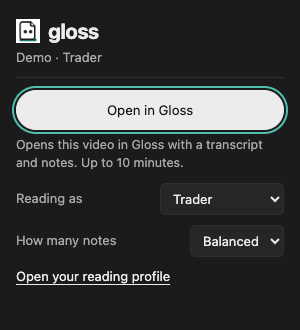
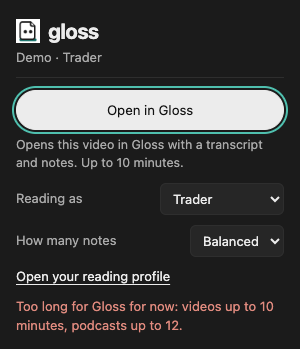
decision 62: review round 1 fixes (listener tests, privacy wording, init.json before deploy, evidence, popup hidden)

diff --git a/apps/extension/test/background.test.ts b/apps/extension/test/background.test.ts
@@ -267,6 +267,37 @@ describe("openVideo (Open in Gloss on YouTube, decision 62)", () => {
   });
 });
 
+describe("the worker's message listener (who may ask for what)", () => {
+  type Listener = (message: unknown, sender: chrome.runtime.MessageSender, reply: (r: unknown) => void) => boolean;
+  const listener = () => chromeFake.runtime.onMessage.addListener.mock.calls[0]![0] as Listener;
+  const popup = { id: "ext", url: "chrome-extension://ext/popup.html" };
+
+  beforeEach(() => {
+    tabUrl = "https://www.youtube.com/watch?v=wajoP_5Cpw8";
+  });
+
+  it.each([
+    ["a content script", { id: "ext", url: "https://www.youtube.com/watch?v=wajoP_5Cpw8", tab: { id: 1 } }],
+    ["another extension page", { id: "ext", url: "chrome-extension://ext/other.html" }],
+    ["another extension", { id: "other", url: "chrome-extension://other/popup.html" }],
+  ])("open-video from %s is ignored: no request, no tab", async (_who, sender) => {
+    const reply = vi.fn();
+    expect(listener()({ type: "open-video", tabId: 1 }, sender as chrome.runtime.MessageSender, reply)).toBe(false);
+    await new Promise((r) => setTimeout(r, 0));
+    expect(reply).not.toHaveBeenCalled();
+    expect(calls).toEqual([]);
+    expect(opened).toEqual([]);
+  });
+
+  it("open-video from the popup opens the video", async () => {
+    const result = await new Promise((resolve) => {
+      expect(listener()({ type: "open-video", tabId: 1 }, popup as chrome.runtime.MessageSender, resolve)).toBe(true);
+    });
+    expect(result).toEqual({ ok: true });
+    expect(opened).toEqual(["https://glossreader.web.app/read/abc"]);
+  });
+});
+
 describe("status", () => {
   it("names the web address the popup links to", async () => {
     connect("anonymous", { webOrigin: "https://readlayer.web.app" });

diff --git a/apps/web/src/pages/PrivacyPage.tsx b/apps/web/src/pages/PrivacyPage.tsx
@@ -65,7 +65,8 @@ const GROUPS: { id: string; title: string; items: string[] }[] = [
     items: [
       "Nothing until you click it on a page. Then the article's title, text and address, with emails, phone numbers and card numbers removed in your browser first. Never forms, comments or anything you type, and never mail, banking or private pages.",
       "Your sign-in stays in the browser's session storage until the browser closes. Signing out, ending the demo or deleting your data disconnects it.",
-      "A page you bring in with it is stored once and readable only by the readers who brought it in. It is listed with the pages you brought in, and deleting your data removes that link.",
+      "An article page you bring in with it is stored once and readable only by the readers who brought it in. It is listed with the pages you brought in, and deleting your data removes that link.",
+      "On a YouTube video, Open in Gloss sends only the video's address, without playlist, time or tracking parts. The video then opens as if you had pasted its link: like any video in Gloss, anyone with its link can read its transcript, and only the entry in your library is yours.",
     ],
   },
 ];

diff --git a/apps/web/src/pages/ConnectPage.tsx b/apps/web/src/pages/ConnectPage.tsx
@@ -35,12 +35,13 @@ const INSTALL = [
   "Pin Gloss to the toolbar, then come back here and press Check again.",
 ];
 
-/** Where Gloss 0.8.1 can still connect: it lists only the old address (decision 62). */
+/** Where Gloss 0.8.1 can still connect: only the old site (decision 62), on either domain. */
 const OLD_HOST = "readlayer-sourabh-26.web.app";
+const OLD_SITE = "readlayer-sourabh-26.";
 
 /** On any other address, a reader with 0.8.1 sees "not installed": say why, and where 0.8.2 is. */
 export function OlderExtensionHint({ hostname }: { hostname: string }) {
-  if (hostname === OLD_HOST) return null;
+  if (hostname.startsWith(OLD_SITE)) return null;
   return (
     <p className="connect__note">
       Installed Gloss 0.8.1 earlier? It connects only from {OLD_HOST}.{" "}

diff --git a/apps/extension/src/popup.css b/apps/extension/src/popup.css
@@ -34,7 +34,7 @@ body { margin: 0; width: 300px; background: var(--surface); color: var(--ink); }
 .popup__message { margin: 0; min-height: 1.45em; font-size: 13px; }
 .popup__message[data-tone="error"] { color: var(--danger); }
 section { display: grid; gap: 10px; }
-[hidden] { display: none; }
+[hidden] { display: none !important; }
 .btn {
   display: block; width: 100%; min-height: 40px; padding: 10px 16px; border: 1px solid var(--ink); border-radius: 999px;
   font: 600 14px/1.2 inherit; font-family: inherit; text-align: center; text-decoration: none; cursor: pointer;

diff --git a/apps/web/test/sites.test.tsx b/apps/web/test/sites.test.tsx
@@ -26,6 +26,8 @@ describe("Connect page hint for Gloss 0.8.1 (decision 62)", () => {
     expect(html).toContain("/releases/tag/extension-v0.8.2");
   });
   it("on the old address, says nothing (0.8.1 connects there)", () => {
-    expect(renderToStaticMarkup(<OlderExtensionHint hostname="readlayer-sourabh-26.web.app" />)).toBe("");
+    for (const host of ["readlayer-sourabh-26.web.app", "readlayer-sourabh-26.firebaseapp.com"]) {
+      expect(renderToStaticMarkup(<OlderExtensionHint hostname={host} />)).toBe("");
+    }
   });
 });

diff --git a/tools/shots/gloss_youtube.py b/tools/shots/gloss_youtube.py
@@ -47,7 +47,8 @@ SESSION_JS = """chrome.storage.session.set({session: {
 POPUP_JS = """({video: !document.getElementById('video-actions').hidden,
   article: !document.getElementById('article-actions').hidden,
   focused: document.activeElement && document.activeElement.id,
-  button: document.getElementById('open-video').textContent,
+  button: [...document.querySelectorAll('#article-actions button, #video-actions button')]
+    .find(b => b.closest('[hidden]') === null)?.textContent,
   hint: document.getElementById('video-hint').textContent})"""
 
 
@@ -104,7 +105,8 @@ def port_open(port: int) -> bool:
         return s.connect_ex(("127.0.0.1", port)) == 0
 
 
-async def press(h: Harness, shot: str | None = None) -> tuple[dict, str]:
+async def press(h: Harness, shot: str | None = None, after: str | None = None) -> tuple[dict, str]:
+    """`shot` before the click; `after` once the popup shows its message (a refusal)."""
     pop = await h.popup()
     view = await pop.eval(POPUP_JS)
     if shot:
@@ -121,6 +123,8 @@ async def press(h: Harness, shot: str | None = None) -> tuple[dict, str]:
         except websockets.exceptions.ConnectionClosed:
             # Chrome closes a popup when the tab it opens takes focus: the success path.
             return view, POPUP_CLOSED
+        if after:
+            print(f"[{after}]", await pop.shot(after))
     await h.close(pop)
     return view, message
 
@@ -182,7 +186,7 @@ async def main() -> None:
         step("youtube: a refusal")
         api_reply.update(status=422, body={"error": "too_long", "message": TOO_LONG})
         worker.seen.clear()
-        _, refused = await press(h, "popup-youtube-too-long")
+        _, refused = await press(h, after="popup-youtube-too-long")
         record("refusal message", refused)
         if refused != TOO_LONG.split(" Use “Open original”")[0]:
             failures.append(f"refusal shown as {refused!r}")

diff --git a/docs/STATUS.md b/docs/STATUS.md
@@ -1,6 +1,6 @@
 # ReadLayer — project status and handoff
 
-Last updated: 2026-10-14 (IST): **Decision 62 built on `gloss-address` (§31): new address `glossreader.web.app` (site created; `gloss`, `gloss-reader` taken), extension 0.8.2 with Open in Gloss on YouTube, gitleaks clean over all history and PR heads, the account name out of tracked files. Next: milestone-reviewer, PR, then the outward steps on Sourabh's yes (Auth domains, his Cloud console step, API env deploy, release 0.8.2, web deploy to both sites, repo public).** **Landing refresh (decision 61) merged (#38) and live (web `index-C8hhvJGX.js`; live check passed, §30). Decision 62 (a "gloss" web address) planned for Oct 15.** **Readiness on For you (decision 60) merged (#37) and live: API revision `readlayer-api-00030-4xb`, web deployed (`index-Bv4pOIf-.js`); live check passed (§29). Next: landing refresh (decision 61).** **M9 part 3 (cost / cache / latency report, monitoring dashboard, hardening checks; decisions 58–59) merged (#36; scripts, docs, dashboard: no deploy needed). M9 complete; open: Sourabh's audit of the 30 precision verdicts; next Oct 16 (seeding, README refresh, video, deck).** **M9 part 2 (same-page duplicates merged, known wrong prerequisites filtered, fresh precision 27/30) merged (#35) and live: API revision `readlayer-api-00029-9lp` (§27). Open: Sourabh's audit of the 30 precision verdicts.** **M9 part 1 (growth slots taken when used, pages that missed growth grow on reopen) merged (#34) and live: API revision `readlayer-api-00028-7zs`, web deployed, release `extension-v0.8.1` (2026-10-14, §26). Live-checked: Sourabh reopened his empty extension pages with 0.8.1, "Great extention worked".** **Media (decision 54) merged (#32) and live (API revision `readlayer-api-00027-q2s`, web deployed, 2026-10-14; §24): YouTube videos up to 10 minutes and Apple Podcasts episodes up to 12. Follow-up (decision 55: youtube.com player, a choice in the feed) merged (#33) and live (web deployed 2026-10-14, §25); live-checked by Sourabh.** Earlier, 2026-10-13: **API revision 00026 (settings only, 2026-10-13): growth caps 60 per reader and 300 a day (decision 53).** **M8-local merged (#30) and live** (API revision 00025, web
+Last updated: 2026-10-14 (IST): **Decision 62 built on `gloss-address` (§31): new address `glossreader.web.app` (site created; `gloss`, `gloss-reader` taken), extension 0.8.2 with Open in Gloss on YouTube, gitleaks clean over all history and PR heads, the account name out of tracked files. Auth authorized domains added on Sourabh's yes (§31). Next: Sourabh's Cloud console step, then on his yes: link the site to the web app and confirm its `init.json`, API env deploy, release 0.8.2, web deploy to both sites, live check, repo public.** **Landing refresh (decision 61) merged (#38) and live (web `index-C8hhvJGX.js`; live check passed, §30). Decision 62 (a "gloss" web address) planned for Oct 15.** **Readiness on For you (decision 60) merged (#37) and live: API revision `readlayer-api-00030-4xb`, web deployed (`index-Bv4pOIf-.js`); live check passed (§29). Next: landing refresh (decision 61).** **M9 part 3 (cost / cache / latency report, monitoring dashboard, hardening checks; decisions 58–59) merged (#36; scripts, docs, dashboard: no deploy needed). M9 complete; open: Sourabh's audit of the 30 precision verdicts; next Oct 16 (seeding, README refresh, video, deck).** **M9 part 2 (same-page duplicates merged, known wrong prerequisites filtered, fresh precision 27/30) merged (#35) and live: API revision `readlayer-api-00029-9lp` (§27). Open: Sourabh's audit of the 30 precision verdicts.** **M9 part 1 (growth slots taken when used, pages that missed growth grow on reopen) merged (#34) and live: API revision `readlayer-api-00028-7zs`, web deployed, release `extension-v0.8.1` (2026-10-14, §26). Live-checked: Sourabh reopened his empty extension pages with 0.8.1, "Great extention worked".** **Media (decision 54) merged (#32) and live (API revision `readlayer-api-00027-q2s`, web deployed, 2026-10-14; §24): YouTube videos up to 10 minutes and Apple Podcasts episodes up to 12. Follow-up (decision 55: youtube.com player, a choice in the feed) merged (#33) and live (web deployed 2026-10-14, §25); live-checked by Sourabh.** Earlier, 2026-10-13: **API revision 00026 (settings only, 2026-10-13): growth caps 60 per reader and 300 a day (decision 53).** **M8-local merged (#30) and live** (API revision 00025, web
 deployed; live check passed, §22): the Gloss extension, unpacked, activeTab only. Open: Sourabh's
 manual Gmail and bank-login refusal check (§9); the extension zip is released (`extension-v0.8.0`). **Decision 50** merged (#28, #29) and
 live (API revision 00024; scheduled runs confirmed, §21). Before that: Decision 48 (#27),
@@ -293,8 +293,8 @@ and `select_corpus()` now also drops `user_ingested` docs even if a URL is liste
 | Low | Web main bundle **149.93 KB** gzip after decision 62 (149.88 after the landing refresh; budget 150 KB; **≈ 0.07 KB left**: any further reader change must be lazy); For you, Saved, Profile, the week panel (1.68 KB) and the reading spine (1.05 KB) are lazy chunks; the Cytoscape + dagre chunk is gone (the map is SVG) |
 | Medium | Landing refresh (decision 61): "Get the extension (v0.8.1)" and the footer link go to GitHub Releases, which 404 for everyone but Sourabh until the repo is public (Oct 17, after gitleaks), like the other GitHub links. Next: repo public in decision 62 (step F, after gitleaks: clean); check both links live afterwards |
 | Medium | The landing pins `releases/tag/extension-v0.8.2` since decision 62 (link, render test, button, DESIGN §20.2 moved). Until the 0.8.2 release exists the link 404s even for Sourabh. Next: release 0.8.2 before the web deploy (plan order) |
-| Medium | Sign-in on `glossreader.web.app` uses that host as Firebase `authDomain` (decision 62, R11): it needs Sourabh's Cloud console step (its OAuth redirect URI) before the web deploy, and `/__/firebase/init.json` on the site answered 404 on 2026-10-14 (R13: check after deploy; link the site to the `readlayer-web` app if needed). Next: fallback is a follow-up PR returning that host to the built `authDomain`; the old address is unaffected |
-| Low | Extension 0.8.1 lists only the old address, so on `glossreader.web.app` its Connect page says "not installed"; the page now says why and links 0.8.2. Sessions saved by 0.8.1 have no origin, so after updating, Open in Gloss opens on the new address until the reader connects again |
+| Medium | Sign-in on `glossreader.web.app` uses that host as Firebase `authDomain` (decision 62, R11): it needs Sourabh's Cloud console step (its OAuth redirect URI) before the web deploy, and `/__/firebase/init.json` on the site answered 404 on 2026-10-14, which the auth handler needs (R13): **before** the web deploy, the site is linked to the `readlayer-web` app and `init.json` must answer 200 with the project's id and API key. Next: fallback is a follow-up PR returning that host to the built `authDomain`; the old address is unaffected |
+| Low | Extension 0.8.1 lists only the old address, so on `glossreader.web.app` its Connect page says "not installed"; the page now says why and links 0.8.2. Updating the extension clears its session storage, so every reader connects again after updating (the session then records its origin) |
 | Low | The landing's feed still is not re-shot after the Oct 16 persona re-seed (plan R6), so its readiness lines may differ from the live demo feed. Next: Accepted (freeze); re-shoot only if a line becomes wrong |
 | Low | Emulator only: a brand-new reader's first page fires several requests at once and each runs the `ensure_user` create-if-missing transaction; with four at once the Firestore emulator made them queue (≈ 20 s, "Failed to commit transaction in 5 attempts" in the log, all still 200). The library now asks for the week map after its first answer, which restored the earlier behaviour; a per-uid single-flight in `app/auth.py` would remove the race for every page (M9 candidate). No production occurrence seen |
 | Low | The weekly trend is per uid, so a demo session's trend mixes the personas it read as (the page says "this demo session") |
@@ -546,7 +546,7 @@ BUILD_PLAN.md has the prompts. M6, M7 and M2.2 are merged and live.
 | Oct 14 | **Media** (decision 54): **merged #32 and live** (API 00027, web). Open: the T05 video and T06 episode live as a Google reader, then a demo reader opening them free (§24) |
 | Oct 14 | **Media follow-up** (decision 55): merged #33 and live (web deployed). Open, live: Sourabh plays a video signed in to YouTube and opens a feed video both ways |
 | Oct 15 | **M9.** Part 1 merged #34 and live (§26). Part 2 merged #35 and live (API 00029, §27); Sourabh audits the 30 precision verdicts (`apps/api/evals/heldout_report.md`, row 12 Pregabalin especially). Part 3 (ops evals, hardening, dashboard) built Oct 14 (§28): milestone-reviewer, PR, merge (docs and scripts only, no deploy) |
-| Oct 15 | **Decision 62** (gloss address, Open in Gloss, repo public): plan approved and **built Oct 14** (§31); review, PR, outward steps on Sourabh's yes. **Readiness on For you** (decision 60): **done Oct 14** (merged #37, live, §29). **Landing refresh** (decision 61, plan `docs/plans/landing-refresh.md`): **built Oct 14**, all checks pass (§30); review, PR and web deploy next. **Decision 62** (a "gloss" web address): plan and build Oct 15. **Checkpoint: not merged by end of Oct 15 IST → ask Sourabh what to cut (decision 27)**; nothing slips into Oct 16 seeding |
+| Oct 15 | **Decision 62** (gloss address, Open in Gloss, repo public): plan approved and **built Oct 14** (§31); review, PR, outward steps on Sourabh's yes. **Readiness on For you** (decision 60): **done Oct 14** (merged #37, live, §29). **Landing refresh** (decision 61, plan `docs/plans/landing-refresh.md`): **merged (#38) and live** (§30). **Checkpoint: not merged by end of Oct 15 IST → ask Sourabh what to cut (decision 27)**; nothing slips into Oct 16 seeding |
 | Done Oct 12 | `m8-resume` fast-forwarded to main (it was an ancestor); the wip 2f037a1 carried over by hand (§22) |
 | Oct 16 | Code freeze; demo seeding (re-seed persona templates, pre-ingest demo articles, **re-run `seed_demo_feed`** so the demo feed isn't dated "10 Oct" during judging, **`warm_demo --shifts`** after a dry run: ≤ 48 ±1-band Backgrounds, ≈ $0.20, so "Say it simpler" is warm in the video), README refresh and new screenshots (**fix README's "Videos and podcasts appear today as recommendations only; annotating them is outside the hackathon scope"**, which the landing now contradicts, and **bring the README's extension install steps in line with the landing's**), video, deck. **From readiness (decision 60):** after the persona re-seed, re-run `scripts/readiness_mix.py` (stop rule: one level on ≥ 80% of the newcomer's rows → tell Sourabh, no retuning), and read the newcomer's and trader's stretch lines before the video (one now says "read up on Economic stocks and flows" for a stock-market video, from "stocks" linked to Stock variable): add a plainly wrong edge to the known-wrong prerequisites or keep that row out of the shot. **From M9 part 2:** don't use the BBC PFAS article (`cq8r6nzp4230o`) as the demo article (its stored concepts keep the Forever chemicals / PFAS duplicate); the deck carries the frozen-graph line (64% / 13% vs 89% / 66%) and the three precision numbers (87%, 97%, 90%). **From M9 part 3:** the deck labels 87 / 97 / 90 as judged by the build agent (and whether Sourabh's audit is done); the README already carries the measured request p95 (478 ms, Oct 8–14), cost and spend from `evals/ops_report.md`; refresh them if the report is re-run |
 | **Oct 17** | **Submit** (deadline Oct 18): run a gitleaks scan over the full history, then make the GitHub repo public (decision 44; the landing links to it) |
@@ -1231,12 +1231,15 @@ Plan `docs/plans/gloss-address.md` (rounds 1–4, APPROVE). Branch `gloss-addres
 | Check | Result |
 |---|---|
 | Hosting site | On Sourabh's yes, after the identity check: `gloss` and `gloss-reader` reserved by other projects (Hosting API 400); **`glossreader` created** (`https://glossreader.web.app`, `/__/auth/handler` 200). `firebase.json` has two targets (`app`, `gloss`) with identical bodies; `.firebaserc` maps them |
-| Tests (first) | API: shared `tests/fixtures/youtube_urls.json` (10 video forms, 14 non-videos) read by `test_media_urls.py` and the extension; `test_deploy_env.py`: CORS is exactly both sites on both domains plus the extension, hosting entries identical. Extension: `youtube.test.ts` (fixture, video cap from `deploy.env.yaml`), `background.test.ts` (+15: session origin, Open in Gloss, persona, onboarding, refusals by API words without "Open original", offline), `env.test.ts`. Web: `sites.test.tsx` (authDomain per host, Connect hint), landing pin 0.8.2 |
-| Suites | `pnpm -r typecheck` clean; web **205**, extension **132**, annotator 60; API **1186 passed**, 3 skipped; ruff clean |
+| Tests (first) | API: shared `tests/fixtures/youtube_urls.json` (10 video forms, 14 non-videos) read by `test_media_urls.py` and the extension; `test_deploy_env.py`: CORS is exactly both sites on both domains plus the extension, hosting entries identical. Extension: `youtube.test.ts` (fixture, video cap from `deploy.env.yaml`), `background.test.ts` (+19: session origin, Open in Gloss, persona, onboarding, refusals by API words without "Open original", offline), `env.test.ts`. Web: `sites.test.tsx` (authDomain per host, Connect hint), landing pin 0.8.2 |
+| Suites | `pnpm -r typecheck` clean; web **205**, extension **136**, annotator 60; API **1186 passed**, 3 skipped; ruff clean |
 | Bundle | Main **149.88 → 149.93 KB** gzip (gate 150.00; the per-host authDomain); landing and Connect changes in lazy chunks |
 | Extension 0.8.2 | Production build: permissions `activeTab`, `scripting`, `storage` only (manifest check passes); `externally_connectable` lists both sites on both domains; web base `glossreader.web.app` |
 | Local check `tools/shots/gloss_youtube.py` (no web server; API answered inside the browser) | On a stub page at the real watch URL (with `&t=42s&si=…&list=…`): popup shows **Open in Gloss**, focused, hint "Up to 10 minutes"; the worker sent **one** request, `POST /v1/recs/open` `{"url": "https://www.youtube.com/watch?v=wajoP_5Cpw8"}`; a tab opened at `/read/93053af2…?persona=trader`; a 422 `too_long` shows "Too long for Gloss for now: videos up to 10 minutes, podcasts up to 12."; on an article the popup is unchanged (Read this page, focused); 0 model routes. Evidence `docs/evidence/gloss-address/` |
 | gitleaks (R4) | 37 PR heads fetched; `gitleaks git --log-opts=--all`: 448 of 450 commits by its count, 2 findings, both the extension manifest's **public** RSA key (allow-listed in `.gitleaksignore` with the reason), rescan clean; cross-check `git log --all -p -m | gitleaks stdin`: 5 findings, all that same key |
 | Personal data (R5, R12) | No email in the 37 PR titles and bodies or the 1 issue. The account's address is out of tracked files (Makefile reads `.gcp.local.mk`, gitignored; STATUS and AUTOPILOT_LOG reworded); `git grep -i` for its local part returns nothing. History keeps it (Sourabh's choice) |
-| Deviations | Popup refusals reuse the API's own words minus the "Open original" sentence (more specific than per-code copy; R2 allowed either). The shared shots constant is `tools/shots/live_site.py`, not `site.py` (that name would shadow Python's `site` module). The local check guards port 5173 only: a dev API was already running on 8000 (not ours, left alone), and every worker request is answered in the browser before it leaves |
+| Auth authorized domains (Sourabh's yes, 2026-10-14) | `make check-gcp` ok. Dry run (R8): before `localhost`, `readlayer-sourabh-26.firebaseapp.com`, `readlayer-sourabh-26.web.app`; body adds `glossreader.web.app`, `glossreader.firebaseapp.com`; **2 added, 0 removed**. PATCH ok; read back matches the body |
+| gitleaks on the tracked tree (F1) | `git archive HEAD` scanned with `gitleaks dir`: 1 finding, the manifest's public key (as in history) |
+| Review round 1 (milestone-reviewer **FIX**, 4 blocking + 5) | Applied: §31 Auth row; init.json check and site link moved **before** the web deploy (plan R16, log, §5); README, privacy page and DESIGN §22 no longer call a video opened from the extension private; listener tests (`open-video` ignored from a content script, another page or extension; accepted from the popup); §8 row cleaned; §5 0.8.1 session sentence corrected; evidence re-shot after the refusal shows and the visible button recorded; popup `[hidden]` now wins over `.field` (the persona row could show to Google readers); the Connect hint is silent on both old domains |
+| Deviations | Popup refusals reuse the API's own words minus the "Open original" sentence, not R2's per-code copy: the API's words are more specific (not public, live, too long, the demo cap with its sign-in hint). The shared shots constant is `tools/shots/live_site.py`, not `site.py` (that name would shadow Python's `site` module). The local check guards port 5173 only: a dev API was already running on 8000 (not ours, left alone), and every worker request is answered in the browser before it leaves |
 

diff --git a/docs/AUTOPILOT_LOG.md b/docs/AUTOPILOT_LOG.md
@@ -1909,3 +1909,16 @@ changed, live URLs and numbers. Newest entries at the bottom of each milestone.
   `localhost, readlayer-sourabh-26.firebaseapp.com, readlayer-sourabh-26.web.app`; added
   `glossreader.web.app, glossreader.firebaseapp.com`; removed none. PATCH ok; read back matches.
   Next: Sourabh's Cloud console step (OAuth origin and redirect URI), then deploy-api on his yes.
+- milestone-reviewer round 1: **FIX** (4 blocking: §31 Auth row, init.json/site link before the
+  web deploy, videos called private in README and the privacy page, no listener test; 5 more) →
+  all applied (STATUS §31 review row, plan R16). Local check re-run: all pass, refusal still shot.
+
+### Next steps (resume here, in order)
+1. milestone-reviewer round 2 → SHIP → PR → CI → merge.
+2. Outward, each on Sourabh's yes, `make check-gcp` first: Sourabh's Cloud console step (OAuth
+   origin and redirect URI for glossreader.web.app; brand name) → link `glossreader` to the
+   `readlayer-web` app, `init.json` 200 (R16) → R9 diff check, `make deploy-api`, CORS preflight
+   from both origins → `make extension-zip` from merged `main`, release `extension-v0.8.2` →
+   `make deploy-web` from clean `main` → live check (R6 bounds; Sourabh's Google sign-in on
+   glossreader) → gitleaks over all history again → repo public → signed-out link checks.
+3. The Oct 16 items (unchanged).

diff --git a/README.md b/README.md
@@ -270,7 +270,7 @@ Gloss also runs on any news page through a Chrome extension. It isn't on the Chr
 4. In the web app, open your account menu → **Use Gloss on any site** and press **Connect** (a demo session connects as its sample reader).
 5. Open a news article and click Gloss in the toolbar, then **Read this page** (or press Alt+Shift+R). On a YouTube video, the same button is **Open in Gloss**: the video opens in the web app with a transcript and notes (videos up to 10 minutes).
 
-The extension sends only the article's title and paragraphs (on YouTube, only the video's link, with any playlist, time or tracking parameters removed), after removing emails, phone numbers, card numbers, Aadhaar and PAN numbers in your browser. A page you bring in is visible only to you.
+The extension sends only the article's title and paragraphs (on YouTube, only the video's link, with any playlist, time or tracking parameters removed), after removing emails, phone numbers, card numbers, Aadhaar and PAN numbers in your browser. An article page you bring in is visible only to you. A YouTube video opened from the extension is stored like any video pasted into Gloss: anyone with its link can read it, and only the entry in your library is yours.
 
 ## Repository structure
 

diff --git a/docs/plans/gloss-address.md b/docs/plans/gloss-address.md
@@ -306,3 +306,13 @@ in the 37 PR titles and bodies or the 1 issue.
 
 **Approved** (plan-reviewer round 4, 2026-10-14, at e65ef9a). Its nit (the extension test asserts
 `not_videos` map to null, from the same JSON keys) is how `youtube.test.ts` is written.
+
+## Round 5 (milestone-reviewer FIX on the build; overrides R13's timing)
+
+**R16. Link the site and check `init.json` before the web deploy.** `/__/firebase/init.json` depends
+on the Hosting site being linked to a web app, not on a deploy, and the auth handler needs it. So
+after Sourabh's console step and before `make deploy-web`, on his yes: link `glossreader` to the
+`readlayer-web` app (Hosting API site `appId`), then `curl` `https://glossreader.web.app/__/firebase/init.json`:
+200, `projectId` `readlayer-sourabh-26`, the build's `apiKey`. Only then deploy. Fallback unchanged.
+The zip is built from merged `main` at release time, so it matches the tag; gitleaks re-runs over
+all history after the merge, before the repo goes public.

diff --git a/docs/DESIGN.md b/docs/DESIGN.md
@@ -1383,5 +1383,7 @@ see (R10).
   "Read this page". The worker re-reads the tab's URL, sends only
   `https://www.youtube.com/watch?v=<id>` to `POST /v1/recs/open` (as Read any link does), and opens
   `/read/<id>` (plus `?persona=` for a demo persona other than the default) in a new tab.
-  Refusals show the API's words without its "Open original" sentence. No new permission:
+  Refusals show the API's words without its "Open original" sentence. Privacy: the video is a
+  `user_ingested` doc like a pasted link (only `extension` docs are private), so anyone with its
+  id can read it; only the reader's `ingested` entry is theirs. README and the privacy page say so. No new permission:
   `activeTab` gives the tab's URL once the reader clicks the toolbar button.
